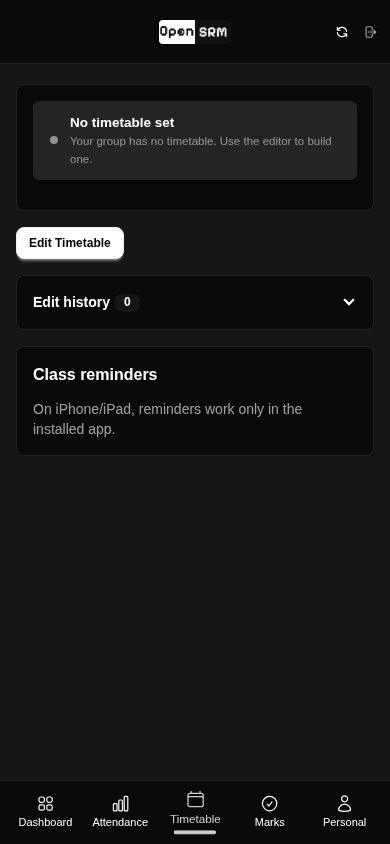
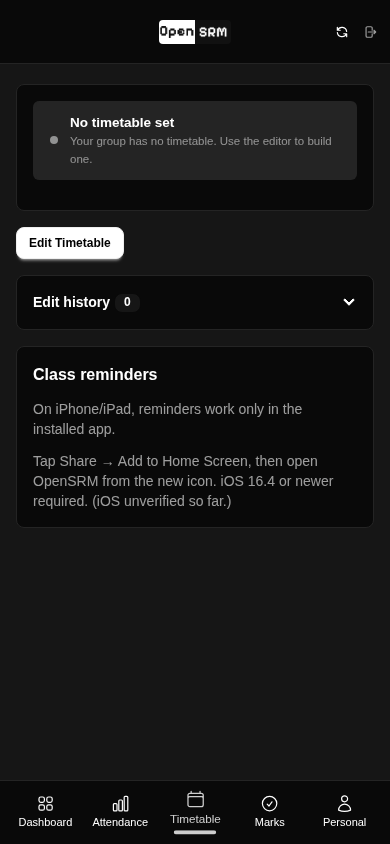
fix: push hint must render outside hidden controls (iOS/denied states)
Vision review of the PR screenshot caught what DOM assertions missed:
#push-hint sat inside #push-controls, which the iOS-not-installed and
permission-denied branches hide — the Add-to-Home-Screen steps and the
denied-recovery text were in the DOM (text_content sees them) but
invisible on screen. Moved the hint to card level; test now asserts
page.is_visible('#push-hint'), not just its text.

Verified: run_push_duts.sh GREEN (ui 20/20), screenshot re-checked visually.

Changed region(s): [[0.0923, 0.5237, 0.8615, 0.6161]]

diff --git a/app/templates/dashboard.html b/app/templates/dashboard.html
@@ -333,10 +333,12 @@
                 <button id="push-enable" class="btn btn-accent btn-sm">Enable reminders</button>
                 <button id="push-test" class="btn btn-outline btn-sm" hidden>Send test notification</button>
               </div>
-              <p class="text-sm text-base-content/60" id="push-hint" hidden></p>
               <p class="text-sm" id="push-feedback" role="status" aria-live="polite"></p>
             </div>
           </div>
+          <!-- hint lives OUTSIDE #push-controls: the iOS-not-installed and
+               permission-denied states hide the controls but must show it -->
+          <p class="text-sm text-base-content/60" id="push-hint" hidden></p>
         </div>
       </div>
     </div>

diff --git a/tests/test_push_ui.py b/tests/test_push_ui.py
@@ -162,6 +162,8 @@ with sync_playwright() as p:
     check("iOS-not-installed state shown", 'On iPhone/iPad' in state, str(state))
     check("Add-to-Home-Screen steps + version + unverified label",
           'Add to Home Screen' in hint and '16.4' in hint and 'unverified' in hint, str(hint))
+    check("hint is actually VISIBLE (not inside hidden controls)",
+          page.is_visible('#push-hint'), "")
     check("iOS path hides the enable controls", not page.is_visible('#push-controls'), "")
     check("no console errors in iOS run", len(errs3) == 0, "; ".join(errs3[:2]))
     page.locator('#push-card').scroll_into_view_if_needed()   # keep the hint in frame
